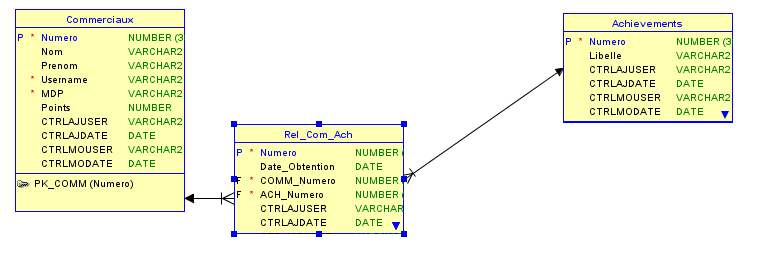
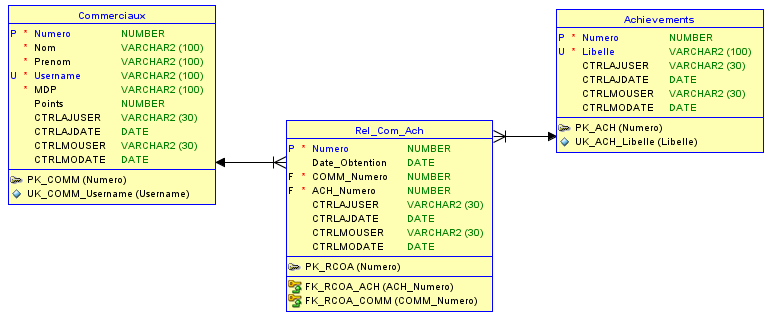
Base des DAO et services pour les achievements terminés. Base de données mise-à-jour.

diff --git a/src/java/ch/hearc/ig/ta/dao/AchievementsDAO.java b/src/java/ch/hearc/ig/ta/dao/AchievementsDAO.java
@@ -21,8 +21,9 @@ import java.util.logging.Logger;
 public class AchievementsDAO extends DAO {
 
     private static final Logger logger = Logger.getLogger(AchievementsDAO.class.getName());
-    
-    public AchievementsDAO() {}
+
+    public AchievementsDAO() {
+    }
 
     public List getAllAchievements() {
         PreparedStatement stmt = null;
@@ -72,14 +73,14 @@ public class AchievementsDAO extends DAO {
                 Achievement achievement = new Achievement(libelle);
                 listAchievements.add(achievement);
             }
-        }catch(SQLException ex){
+        } catch (SQLException ex) {
             logger.log(Level.SEVERE, null, ex);
-        }finally{
-            try{
+        } finally {
+            try {
                 rs.close();
                 stmt.close();
                 c.close();
-            }catch(SQLException ex){
+            } catch (SQLException ex) {
                 logger.log(Level.SEVERE, null, ex);
             }
         }
@@ -101,18 +102,38 @@ public class AchievementsDAO extends DAO {
             while (rs.next()) {
                 nbAchievements = rs.getInt("a.numero");
             }
-        }catch(SQLException ex){
+        } catch (SQLException ex) {
             logger.log(Level.SEVERE, null, ex);
-        }finally{
-            try{
+        } finally {
+            try {
                 rs.close();
                 stmt.close();
                 c.close();
-            }catch(SQLException ex){
+            } catch (SQLException ex) {
                 logger.log(Level.SEVERE, null, ex);
             }
         }
         return nbAchievements;
     }
-    
+
+    public boolean checkUserAchievement(final String username, final String achievementLabel) {
+        try (PreparedStatement pstmt = c.prepareStatement("SELECT 1 "
+                                                          + "FROM Achivements a "
+                                                            + "INNER JOIN REL_COM_ACH rca "
+                                                              + "ON rca.ACH_Numero = a.numero "
+                                                            + "INNER JOIN Commerciaux c "
+                                                              + "ON rca.COMM_Numero = c.numero "
+                                                          + "WHERE UPPER(username) = UPPER(?) AND UPPER(libelle) = UPPER(?)")) {
+            pstmt.setString(1, username);
+            pstmt.setString(2, achievementLabel);
+
+            try (ResultSet achievementFound = pstmt.executeQuery()) {
+                return achievementFound.next();
+            }
+        } catch (SQLException ex) {
+            logger.log(Level.SEVERE, null, ex);
+            return false;
+        }
+    }
+
 }

diff --git a/src/java/ch/hearc/ig/ta/services/Services.java b/src/java/ch/hearc/ig/ta/services/Services.java
@@ -1,9 +1,12 @@
 package ch.hearc.ig.ta.services;
 
+import ch.hearc.ig.ta.business.Achievement;
 import ch.hearc.ig.ta.business.Commercial;
 import ch.hearc.ig.ta.dao.AchievementsDAO;
 import ch.hearc.ig.ta.dao.CommerciauxDAO;
 import ch.hearc.ig.ta.dao.DAO;
+import ch.hearc.ig.ta.dao.RelComAchDao;
+import java.util.List;
 
 /**
  *
@@ -13,6 +16,7 @@ public class Services {
 
     private final CommerciauxDAO commerciauxDao = new CommerciauxDAO();
     private final AchievementsDAO achievementsDao = new AchievementsDAO();
+    private final RelComAchDao relComAchDao = new RelComAchDao();
     private Commercial commercial;
 
     private void getCommercial(final String username) {
@@ -54,6 +58,26 @@ public class Services {
         
         if(result > 0) {
             commercial.setPoints(commercial.getPoints() + points);
+            DAO.commit();
+            return true;
+        }else {
+            DAO.rollback();
+            return false;
+        }
+    }
+    
+    public List<Achievement> getUserAchievements(final String username) {
+        return achievementsDao.getAchievementsByCommercial(username);
+    }
+    
+    public boolean checkUserAchievement(final String username, final String achievementLabel) {
+        return achievementsDao.checkUserAchievement(username, achievementLabel);
+    }
+    
+    public boolean addAchievement(final String username, final String achievementLabel) {
+        int result = relComAchDao.insert(username, achievementLabel);
+        
+        if(result > 0) {
             DAO.commit();
             return true;
         }else {

diff --git a/src/java/ch/hearc/ig/ta/dao/RelComAchDao.java b/src/java/ch/hearc/ig/ta/dao/RelComAchDao.java
@@ -14,12 +14,12 @@ public class RelComAchDao extends DAO {
     
     private static final Logger logger = Logger.getLogger(RelComAchDao.class.getName());
     
-    public int insert(final String username, final String label) {
+    public int insert(final String username, final String achievementLabel) {
         try(PreparedStatement pstmt = c.prepareStatement("INSERT INTO rel_com_ach(date_obtention, comm_numero, ach_numero) "
                                                          + "VALUES (sysdate, (SELECT numero FROM commerciaux WHERE UPPER(username) = ?), "
                                                                 + "(SELECT numero FROM achievements WHERE UPPER(libelle) = ?))")) {
             pstmt.setString(1, username);
-            pstmt.setString(2, label);
+            pstmt.setString(2, achievementLabel);
             
             return pstmt.executeUpdate();
         }catch(SQLException ex) {
